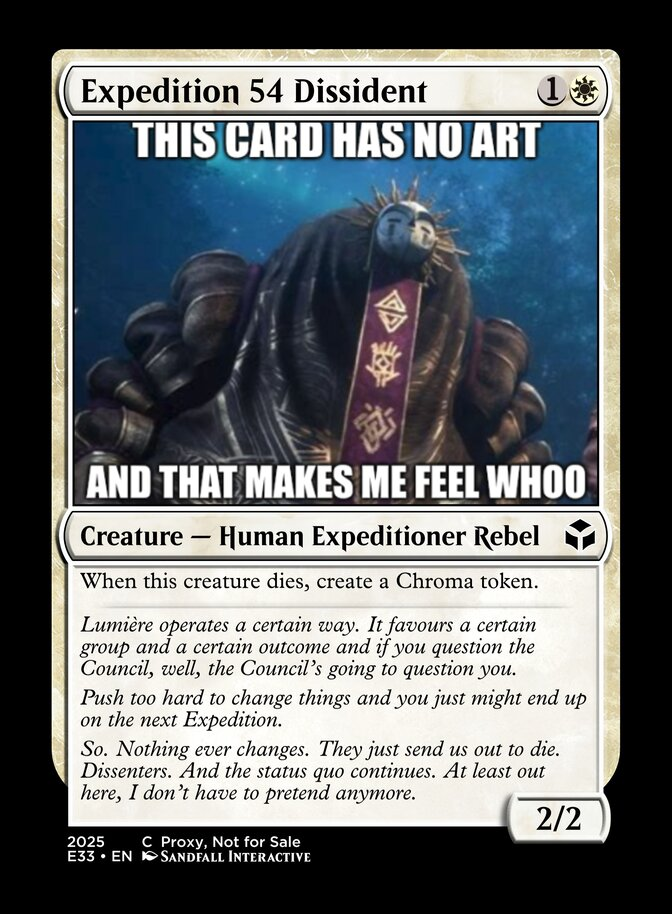
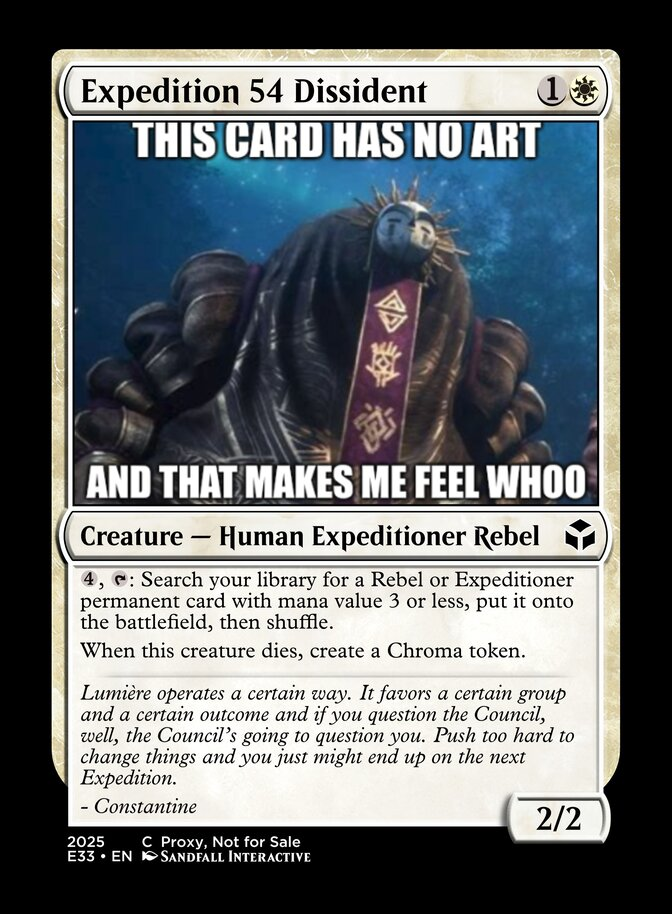
#71: Expedition 54 Dissident: Add Rebel chain tutoring ability, but also include Expeditioners.

Changed region(s): [[0.125, 0.6127, 0.875, 0.8884]]

diff --git a/design/WHITE.md b/design/WHITE.md
@@ -1,6 +1,6 @@
 # Cards
 
-> Last generated: 26/1/2026 12:25:09 am
+> Last generated: 26/1/2026 2:26:51 am
 
 ## A Life to Love (Farewell)
 
@@ -290,11 +290,11 @@ For our allies who come after, sadly our lives may have proven that defense is b
 ```
 1W
 Creature - Human Expeditioner Rebel
+{4}, {T}: Search your library for a Rebel or Expeditioner permanent card with mana value 3 or less, put it onto the battlefield, then shuffle.
 When this creature dies, create a Chroma token.
 ---
-Lumière operates a certain way. It favours a certain group and a certain outcome and if you question the Council, well, the Council’s going to question you.
-Push too hard to change things and you just might end up on the next Expedition.
-So. Nothing ever changes. They just send us out to die. Dissenters. And the status quo continues. At least out here, I don’t have to pretend anymore.
+Lumière operates a certain way. It favors a certain group and a certain outcome and if you question the Council, well, the Council’s going to question you. Push too hard to change things and you just might end up on the next Expedition.
+- Constantine
 
 2/2
 ```
@@ -304,6 +304,7 @@ So. Nothing ever changes. They just send us out to die. Dissenters. And the stat
 ### Design Notes
 
  - Vanilla bear wtih Rebel sub-type (as a synonmym of dissent)
+ - 26/01/2026: To improve playability, added the Rebel chain tutoring ability but can also get Expeditioners.
 
 ## Expedition Recruiter
 
